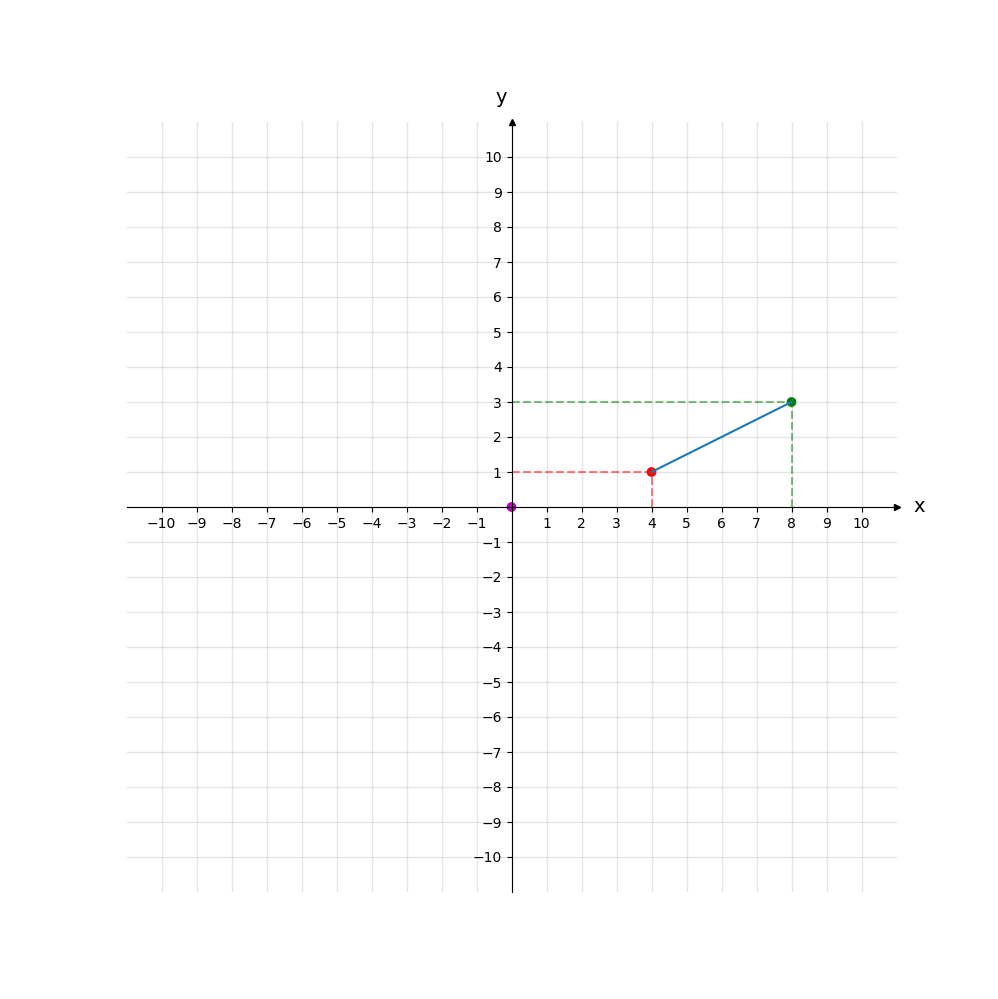
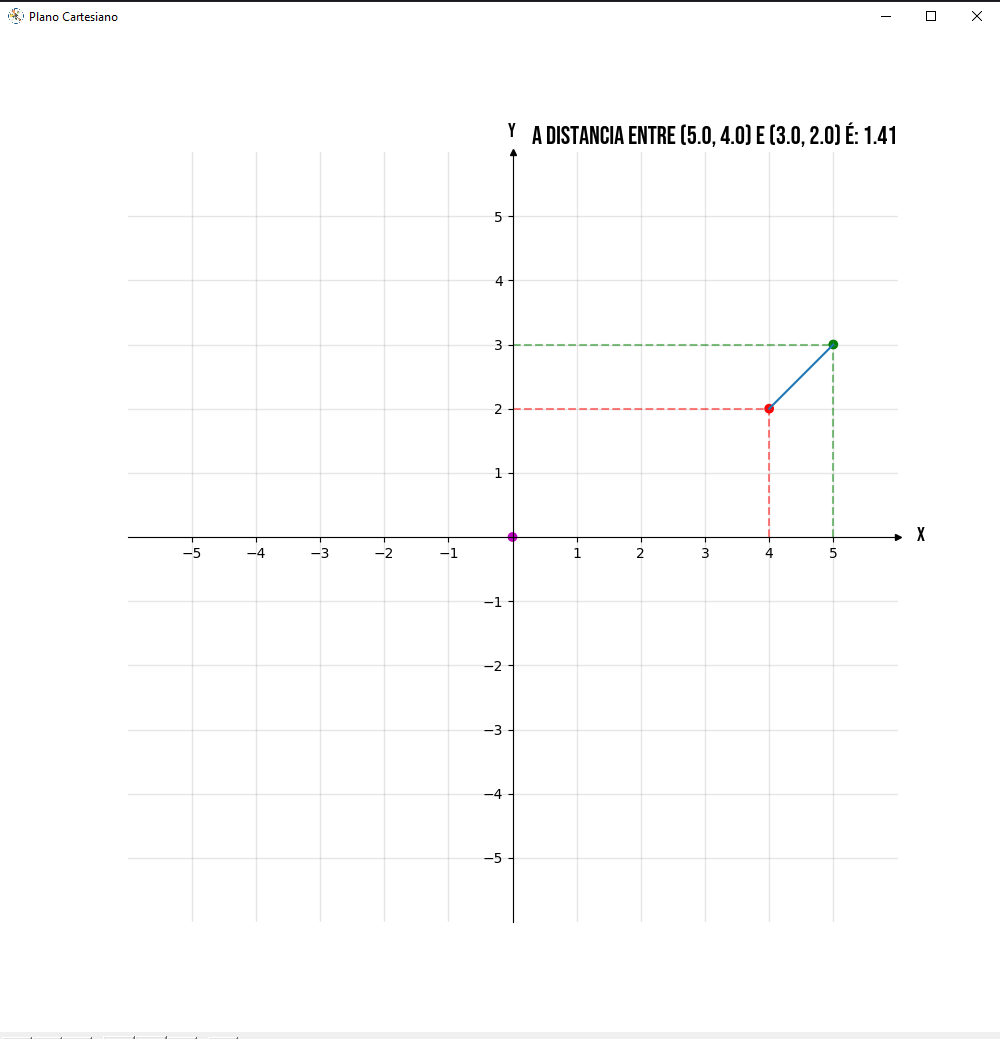
Add GUI and new pictures

diff --git a/cartesian-plane.py b/cartesian-plane.py
@@ -1,82 +1,109 @@
 import matplotlib.pyplot as plt
 import numpy as np 
+from appJar import gui
 
-# Coordinates input.
-x1 = int(input("Insira x1 : "))
-x2 = int(input("Insira x2 : "))
-y1 = int(input("Insira y1 : "))
-y2 = int(input("Insira y2 : "))
+# Create a def to cancel button
+def cancel(button):
+    if button == "Cancelar":
+        app.stop()
 
-result = ((((x2 - x1 )**2) + ((y2-y1)**2) )**0.5)
+# Create a GUI variable called app
+app = gui("Geometria Analítica", "400x200")
+app.setBg("white")
+app.setFont(size=18, family="Bebas Neue")
 
-print("A distancia entre",(x1,x2),"e",(y1,y2),"é : ",result)
+# Add & configure widgets
+app.addLabel("title", "Insira os valores de x1, x2, y1 e y2:")
+app.setLabelBg("title", "blue")
+app.setLabelFg("title", "orange")
 
+app.addLabelEntry("x1")
+app.addLabelEntry("x2")
+app.addLabelEntry("y1")
+app.addLabelEntry("y2")
 
-xs = [0, x1, x2]
-ys = [0, y1, y2]
-colors = ['m', 'g', 'r']
+# Create a def to input data into the cartesian plane graphic
+def graphic():
+    x1 = float(app.getEntry("x1"))
+    x2 = float(app.getEntry("x2"))
+    y1 = float(app.getEntry("y1"))
+    y2 = float(app.getEntry("y2"))
+    result = ((((x2 - x1 )**2) + ((y2-y1)**2) )**0.5)
 
-# Select length of axes and the space between tick labels
-if x1 <=5 and x2 <=5 and y1 <=5 and y2 <=5:
-    xmin, xmax, ymin, ymax = -5, 5, -5, 5
-    ticks_frequency = 1
-elif (x1 >5 and x1 <=10) or (x2 >5 and x2 <=10) or (y1 >5 and y1 <=10) or (y2 >5 and y2 <=10):
-    xmin, xmax, ymin, ymax = -10, 10, -10, 10 
-    ticks_frequency = 1
-elif (x1 >10 ) or (x2 >10) or (y1 >10) or (y2 >10):
-    largest = max(x1,x2,y1,y2)
-    print(largest)
-    xmin, xmax, ymin, ymax = -(largest), (largest), -(largest), (largest)
-    ticks_frequency = round((largest)/10)
+    xs = [0, x1, x2]
+    ys = [0, y1, y2]
+    colors = ['m', 'g', 'r']
+    
+    # Create the graphic
+    # Select length of axes and the space between tick labels
+    if x1 <=5 and x2 <=5 and y1 <=5 and y2 <=5:
+        xmin, xmax, ymin, ymax = -5, 5, -5, 5
+        ticks_frequency = 1
+    elif (x1 >5 and x1 <10) or (x2 >5 and x2 <10) or (y1 >5 and y1 <10) or (y2 >5 and y2 <10):
+        xmin, xmax, ymin, ymax = -10, 10, -10, 10 
+        ticks_frequency = 1
+    elif (x1 >10 ) or (x2 >10) or (y1 >10) or (y2 >10):
+        largest = max(x1,x2,y1,y2)
+        xmin, xmax, ymin, ymax = -(largest), (largest), -(largest), (largest)
+        ticks_frequency = round((largest)/10)
 
-# Plot points
-fig, ax = plt.subplots(figsize=(10, 10))
-ax.scatter(xs, ys, c=colors)
+    # Plot points and window title
+    fig, ax = plt.subplots(figsize=(10, 10))
+    fig.canvas.set_window_title('Plano Cartesiano')
+    ax.scatter(xs, ys, c=colors)
 
-# Draw lines connecting points to axes
-for x, y, c in zip(xs, ys, colors):
-    ax.plot([x, x], [0, y], c=c, ls='--', lw=1.5, alpha=0.5)
-    ax.plot([0, x], [y, y], c=c, ls='--', lw=1.5, alpha=0.5)
+    # Draw lines connecting points to axes
+    for x, y, c in zip(xs, ys, colors):
+        ax.plot([x, x], [0, y], c=c, ls='--', lw=1.5, alpha=0.5)
+        ax.plot([0, x], [y, y], c=c, ls='--', lw=1.5, alpha=0.5)
 
-# Set identical scales for both axes
-ax.set(xlim=(xmin-1, xmax+1), ylim=(ymin-1, ymax+1), aspect='equal')
+    # Set identical scales for both axes
+    ax.set(xlim=(xmin-1, xmax+1), ylim=(ymin-1, ymax+1), aspect='equal')
 
-# Set bottom and left spines as x and y axes of coordinate system
-ax.spines['bottom'].set_position('zero')
-ax.spines['left'].set_position('zero')
+    # Set bottom and left spines as x and y axes of coordinate system
+    ax.spines['bottom'].set_position('zero')
+    ax.spines['left'].set_position('zero')
 
-# Remove top and right spines
-ax.spines['top'].set_visible(False)
-ax.spines['right'].set_visible(False)
+    # Remove top and right spines
+    ax.spines['top'].set_visible(False)
+    ax.spines['right'].set_visible(False)
 
-# Create 'x' and 'y' labels placed at the end of the axes
-ax.set_xlabel('x', size=14, labelpad=-24, x=1.03)
-ax.set_ylabel('y', size=14, labelpad=-21, y=1.02, rotation=0)
+    # Create 'x' and 'y' labels placed at the end of the axes
+    ax.set_xlabel('x', size=14, labelpad=-24, x=1.03, family="Bebas Neue")
+    ax.set_ylabel('y', size=14, labelpad=-21, y=1.02, rotation=0, family="Bebas Neue")
 
-# Create custom major ticks to determine position of tick labels
-x_ticks = np.arange(xmin, xmax+1, ticks_frequency)
-y_ticks = np.arange(ymin, ymax+1, ticks_frequency)
-ax.set_xticks(x_ticks[x_ticks != 0])
-ax.set_yticks(y_ticks[y_ticks != 0])
+    # Create custom major ticks to determine position of tick labels
+    x_ticks = np.arange(xmin, xmax+1, ticks_frequency)
+    y_ticks = np.arange(ymin, ymax+1, ticks_frequency)
+    ax.set_xticks(x_ticks[x_ticks != 0])
+    ax.set_yticks(y_ticks[y_ticks != 0])
 
-# Create minor ticks placed at each integer to enable drawing of minor grid
-# lines: note that this has no effect in this example with ticks_frequency=1
-ax.set_xticks(np.arange(xmin, xmax+1), minor=True)
-ax.set_yticks(np.arange(ymin, ymax+1), minor=True)
+    # Create minor ticks placed at each integer to enable drawing of minor grid
+    ax.set_xticks(np.arange(xmin, xmax+1), minor=True)
+    ax.set_yticks(np.arange(ymin, ymax+1), minor=True)
 
-# Draw major and minor grid lines
-ax.grid(which='both', color='grey', linewidth=1, linestyle='-', alpha=0.2)
+    # Draw major and minor grid lines
+    ax.grid(which='both', color='grey', linewidth=1, linestyle='-', alpha=0.2)
 
-# Draw arrows
-arrow_fmt = dict(markersize=4, color='black', clip_on=False)
-ax.plot((1), (0), marker='>', transform=ax.get_yaxis_transform(), **arrow_fmt)
-ax.plot((0), (1), marker='^', transform=ax.get_xaxis_transform(), **arrow_fmt)
+    # Draw arrows
+    arrow_fmt = dict(markersize=4, color='black', clip_on=False)
+    ax.plot((1), (0), marker='>', transform=ax.get_yaxis_transform(), **arrow_fmt)
+    ax.plot((0), (1), marker='^', transform=ax.get_xaxis_transform(), **arrow_fmt)
 
-# Draw a line between two points
-point1 = [x1, y1]
-point2 = [x2, y2]
-x_values = [point1[0], point2[0]]
-y_values = [point1[1], point2[1]]
-plt.plot(x_values, y_values)
+    # Draw a line between two points
+    point1 = [x1, y1]
+    point2 = [x2, y2]
+    x_values = [point1[0], point2[0]]
+    y_values = [point1[1], point2[1]]
+    resultInput = "A distancia entre ({}, {}) e ({}, {}) é: {:.2f}".format(x1,x2,y1,y2, result)
+    plt.title(resultInput, loc = 'right', size = 18, family="Bebas Neue")
+    plt.plot(x_values, y_values)
 
-plt.show()
+    plt.show()
+
+# Link the buttons to the functions
+app.addButtons(["Criar Gráfico"], graphic)
+app.addButtons(["Cancelar"], cancel)
+
+# Start the GUI
+app.go()
